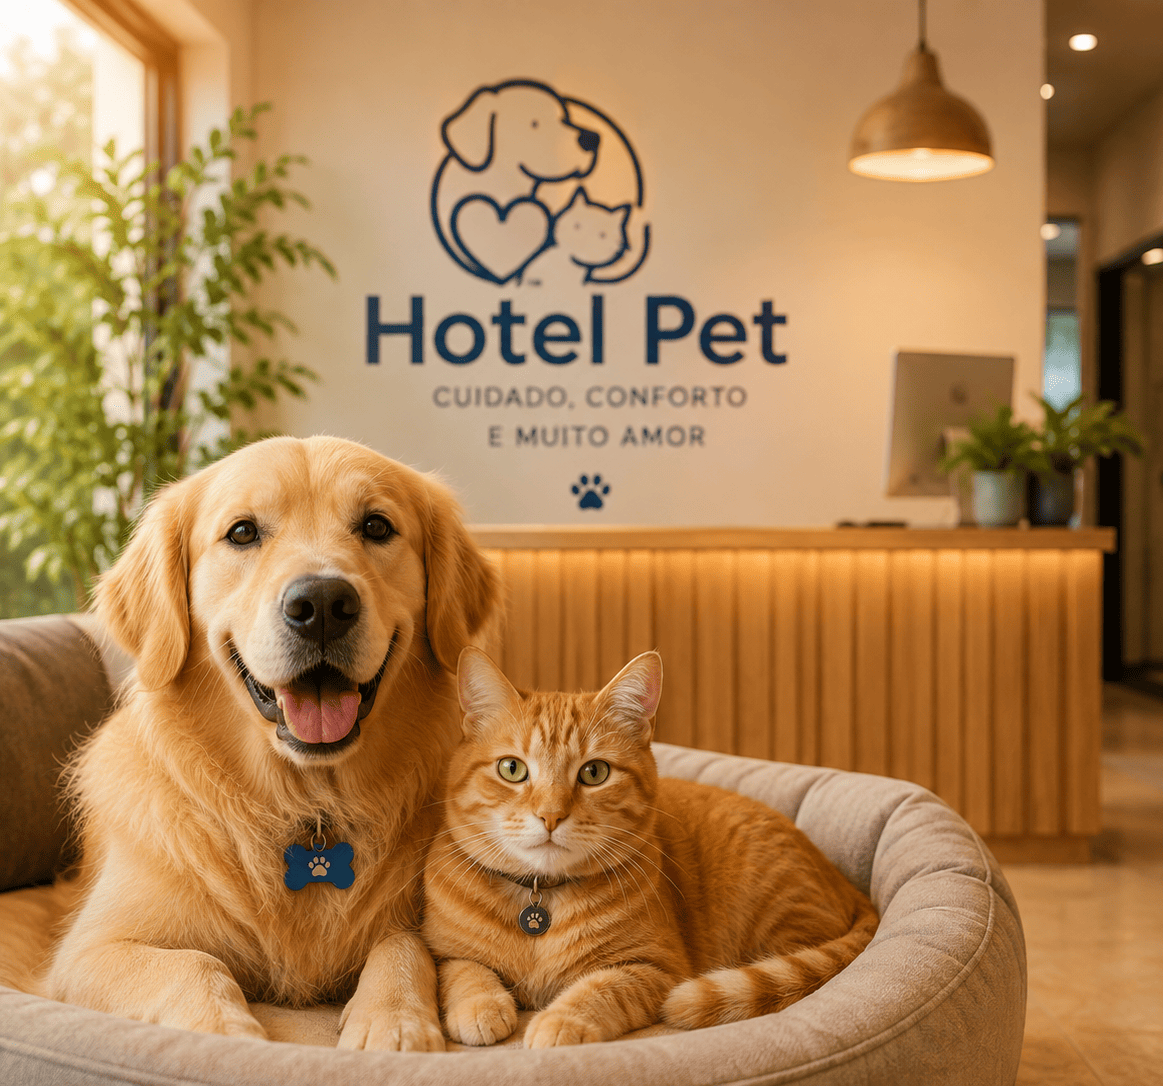
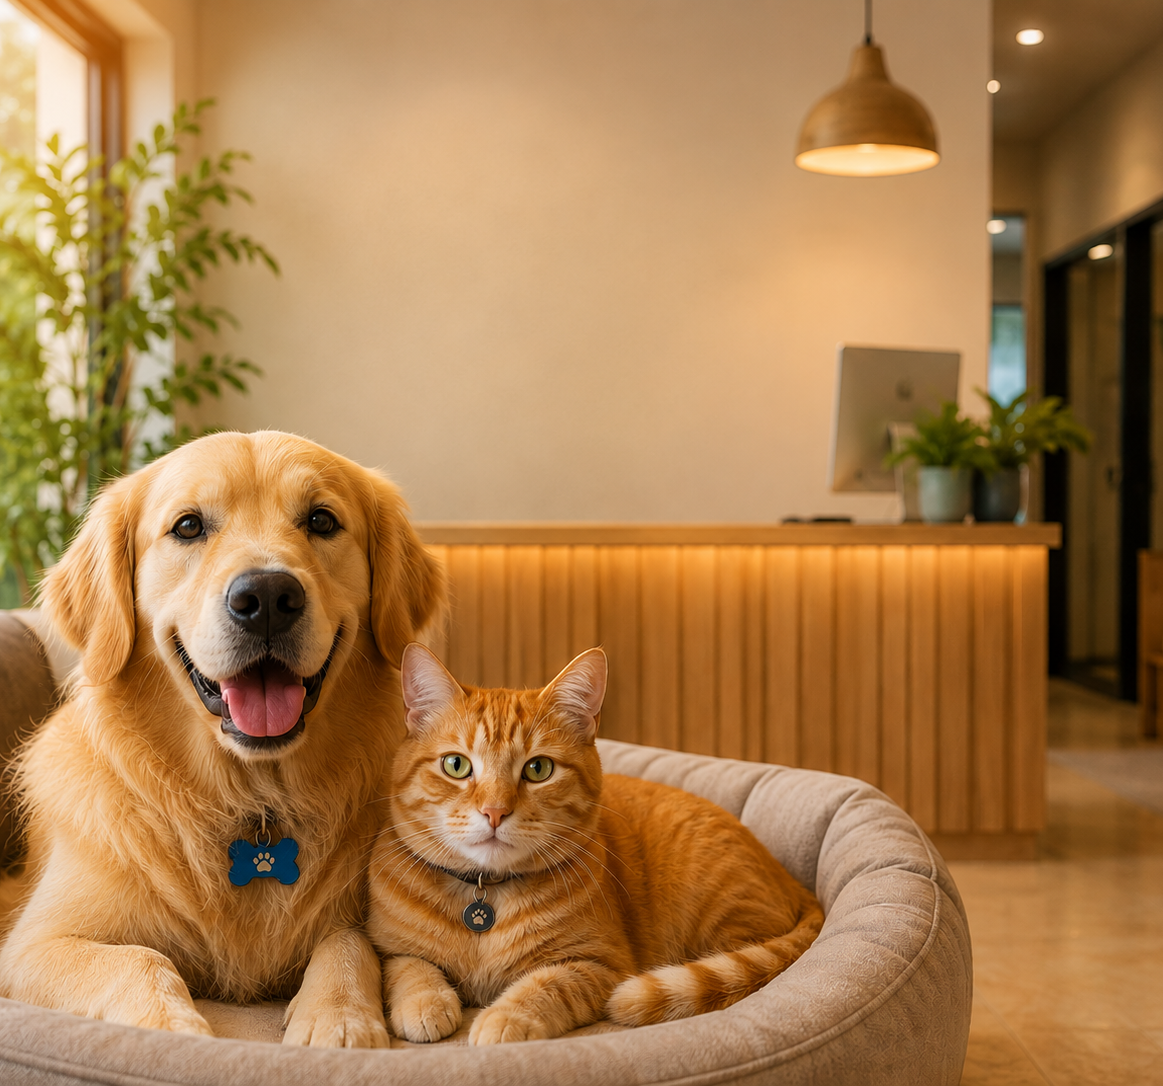
Mudei o botão de login e criar conta para tag a

diff --git a/usuarios.html b/usuarios.html
@@ -148,7 +148,7 @@
                                     <td><span class="status-ativo">Ativo</span></td>
                                     <td>19/02/2020</td>
                                     <td>
-                                        <a href="">Editar</a>
+                                        <a href="editar-perfil.html">Editar</a>
                                         <a href="">Visualizar</a>
                                     </td>
                                     </td>
@@ -163,7 +163,7 @@
                                     <td><span class="status-inativo">Inativo</span></td>
                                     <td>19/02/2020</td>
                                     <td>
-                                        <a href="">Editar</a>
+                                        <a href="editar-perfil.html">Editar</a>
                                         <a href="">Visualizar</a>
                                     </td>
                                     </td>

diff --git a/css/style.css b/css/style.css
@@ -76,11 +76,13 @@
     color: rgb(17, 17, 199);
 }
 
-.form-login>input[type="button"] {
+
+
+.botao-login {
     margin-top: 15px;
     width: 100%;
     padding: 12px;
-    background-color: blue;
+    background-color: #07aee8;
     color: white;
     font-size: 17px;
     font-weight: bold;
@@ -88,11 +90,14 @@
     cursor: pointer;
     border-radius: 7px;
     border: none;
+    text-align: center;
+    text-decoration: none;
 }
 
-.form-login>input[type="button"]:hover {
-    background-color: rgb(2, 2, 194);
+.botao-login:hover {
+    background-color: #0391c0;
 }
+
 
 .form-login>p {
     text-align: center;

diff --git a/criar-conta.html b/criar-conta.html
@@ -25,7 +25,7 @@
                 <label for="">Senha</label>
                 <input type="password" name="" placeholder="Digite sua senha" id="">
 
-                <input type="button" value="Criar Conta">
+                <a href="index.html" class="botao-login">Criar Conta</a>
 
                 <a href="index.html" id="linkFazerLogin">Já tem conta? Login</a>
             </div>

diff --git a/index.html b/index.html
@@ -34,7 +34,7 @@
                     <a href="">Esqueci a senha</a>
                 </div>
 
-                <input type="button" value="Enviar">
+                <a href="pets.html" class="botao-login">Enviar</a>
 
                 <p>----------------- ou -----------------</p>
 
